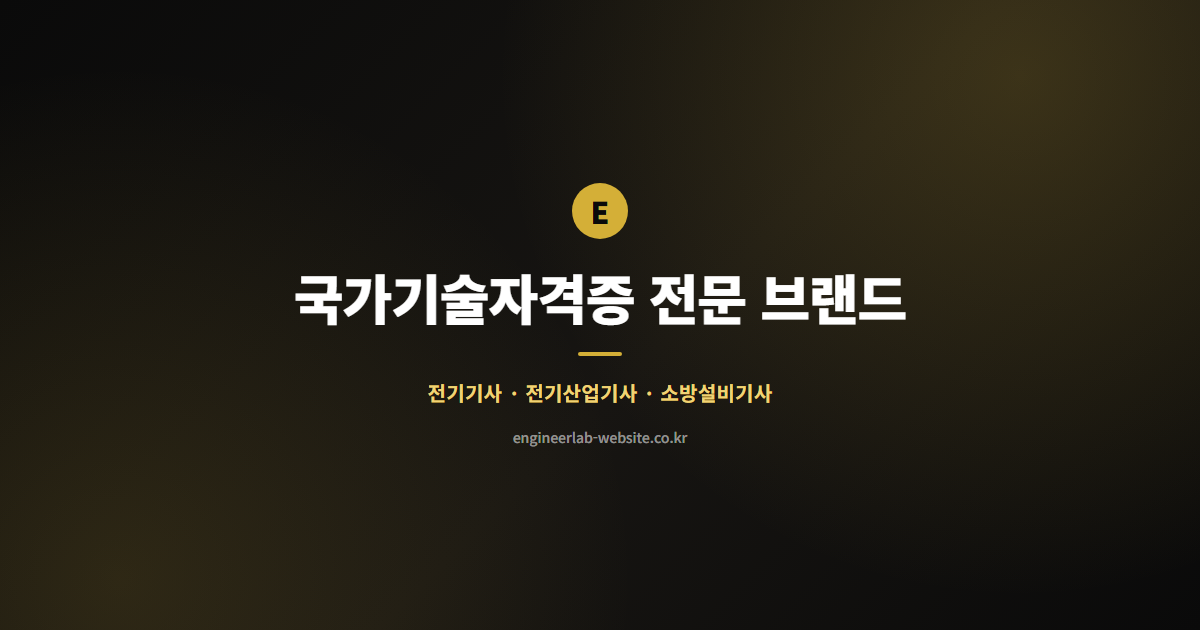
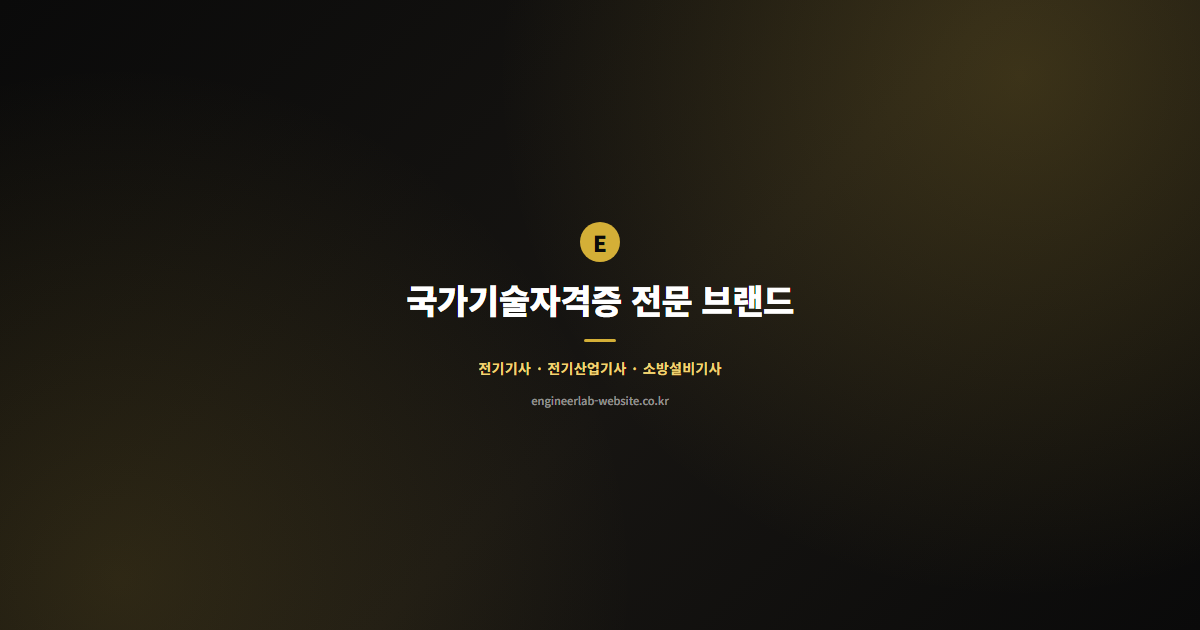
썸네일 텍스트를 훨씬 더 작게 축소 (일부 플랫폼의 더 좁은 크롭 영역에도 안전하게), 캐시버스팅 버전 v3

Changed region(s): [[0.2467, 0.2714, 0.7708, 0.7238]]

diff --git a/index.html b/index.html
@@ -13,11 +13,11 @@
 <meta property="og:title" content="엔지니어랩 - 국가기술자격증 전문 브랜드" />
 <meta property="og:description" content="전기기사·전기산업기사·전기공사기사·소방설비기사·전기기능사·공기업 채용까지, 국가기술자격증 전문 브랜드 엔지니어랩입니다." />
 <meta property="og:url" content="https://engineerlab-website.co.kr/" />
-<meta property="og:image" content="https://engineerlab-website.co.kr/og-thumbnail.png?v=2" />
+<meta property="og:image" content="https://engineerlab-website.co.kr/og-thumbnail.png?v=3" />
 <meta property="og:image:width" content="1200" />
 <meta property="og:image:height" content="630" />
 <meta name="twitter:card" content="summary_large_image" />
-<meta name="twitter:image" content="https://engineerlab-website.co.kr/og-thumbnail.png?v=2" />
+<meta name="twitter:image" content="https://engineerlab-website.co.kr/og-thumbnail.png?v=3" />
 <link rel="icon" type="image/svg+xml" href="favicon.svg">
 <script type="application/ld+json">
 {
@@ -27,7 +27,7 @@
   "alternateName": "엔지니어랩학원",
   "url": "https://engineerlab-website.co.kr/",
   "logo": "https://engineerlab-website.co.kr/favicon.svg",
-  "image": "https://engineerlab-website.co.kr/og-thumbnail.png?v=2",
+  "image": "https://engineerlab-website.co.kr/og-thumbnail.png?v=3",
   "description": "전기기사·전기산업기사·전기공사기사·소방설비기사·전기기능사·공기업 채용까지, 국가기술자격증 전문 브랜드 엔지니어랩입니다.",
   "telephone": "+82-1577-2166",
   "email": "helpenlab@kimyoung.co.kr",

diff --git a/support.html b/support.html
@@ -11,11 +11,11 @@
 <meta property="og:title" content="학습지원 시스템 - 엔지니어랩" />
 <meta property="og:description" content="엔지니어랩 CBT 모의고사, 복원 LIVE 기획특강, 교수님 1:1 학습질문, PC/모바일 학습환경 등 합격 최적화 학습지원 시스템을 소개합니다." />
 <meta property="og:url" content="https://engineerlab-website.co.kr/support.html" />
-<meta property="og:image" content="https://engineerlab-website.co.kr/og-thumbnail.png?v=2" />
+<meta property="og:image" content="https://engineerlab-website.co.kr/og-thumbnail.png?v=3" />
 <meta property="og:image:width" content="1200" />
 <meta property="og:image:height" content="630" />
 <meta name="twitter:card" content="summary_large_image" />
-<meta name="twitter:image" content="https://engineerlab-website.co.kr/og-thumbnail.png?v=2" />
+<meta name="twitter:image" content="https://engineerlab-website.co.kr/og-thumbnail.png?v=3" />
 <link rel="icon" type="image/svg+xml" href="favicon.svg">
 <script type="application/ld+json">
 {

diff --git a/teachers.html b/teachers.html
@@ -11,11 +11,11 @@
 <meta property="og:title" content="강사진 소개 - 엔지니어랩" />
 <meta property="og:description" content="전기기사 조경필 교수, 전기×공기업 김상훈 교수, 소방설비기사 이종오 교수·심승아 교수 등 엔지니어랩 강사진을 소개합니다." />
 <meta property="og:url" content="https://engineerlab-website.co.kr/teachers.html" />
-<meta property="og:image" content="https://engineerlab-website.co.kr/og-thumbnail.png?v=2" />
+<meta property="og:image" content="https://engineerlab-website.co.kr/og-thumbnail.png?v=3" />
 <meta property="og:image:width" content="1200" />
 <meta property="og:image:height" content="630" />
 <meta name="twitter:card" content="summary_large_image" />
-<meta name="twitter:image" content="https://engineerlab-website.co.kr/og-thumbnail.png?v=2" />
+<meta name="twitter:image" content="https://engineerlab-website.co.kr/og-thumbnail.png?v=3" />
 <link rel="icon" type="image/svg+xml" href="favicon.svg">
 <script type="application/ld+json">
 {

diff --git a/professor-sim.html b/professor-sim.html
@@ -11,11 +11,11 @@
 <meta property="og:title" content="심승아 교수 프로필 - 엔지니어랩" />
 <meta property="og:description" content="소방설비기사 심승아 교수 프로필. 서울시립대학교 방재공학전공 석사, 前 한방유비스(주) 소방 실무 경력." />
 <meta property="og:url" content="https://engineerlab-website.co.kr/professor-sim.html" />
-<meta property="og:image" content="https://engineerlab-website.co.kr/og-thumbnail.png?v=2" />
+<meta property="og:image" content="https://engineerlab-website.co.kr/og-thumbnail.png?v=3" />
 <meta property="og:image:width" content="1200" />
 <meta property="og:image:height" content="630" />
 <meta name="twitter:card" content="summary_large_image" />
-<meta name="twitter:image" content="https://engineerlab-website.co.kr/og-thumbnail.png?v=2" />
+<meta name="twitter:image" content="https://engineerlab-website.co.kr/og-thumbnail.png?v=3" />
 <link rel="icon" type="image/svg+xml" href="favicon.svg">
 <script type="application/ld+json">
 {

diff --git a/professor-lee.html b/professor-lee.html
@@ -11,11 +11,11 @@
 <meta property="og:title" content="이종오 교수 프로필 - 엔지니어랩" />
 <meta property="og:description" content="소방설비기사 이종오 교수 프로필. 가천대학교 소방방재학 석사, 소방 현장 실무경력 10년 이상." />
 <meta property="og:url" content="https://engineerlab-website.co.kr/professor-lee.html" />
-<meta property="og:image" content="https://engineerlab-website.co.kr/og-thumbnail.png?v=2" />
+<meta property="og:image" content="https://engineerlab-website.co.kr/og-thumbnail.png?v=3" />
 <meta property="og:image:width" content="1200" />
 <meta property="og:image:height" content="630" />
 <meta name="twitter:card" content="summary_large_image" />
-<meta name="twitter:image" content="https://engineerlab-website.co.kr/og-thumbnail.png?v=2" />
+<meta name="twitter:image" content="https://engineerlab-website.co.kr/og-thumbnail.png?v=3" />
 <link rel="icon" type="image/svg+xml" href="favicon.svg">
 <script type="application/ld+json">
 {

diff --git a/professor-cho.html b/professor-cho.html
@@ -11,11 +11,11 @@
 <meta property="og:title" content="조경필 교수 프로필 - 엔지니어랩" />
 <meta property="og:description" content="전기기사 조경필 교수 프로필. 前 조선대 이공대학 겸임교수, 前 동강대 전기전자 외래교수." />
 <meta property="og:url" content="https://engineerlab-website.co.kr/professor-cho.html" />
-<meta property="og:image" content="https://engineerlab-website.co.kr/og-thumbnail.png?v=2" />
+<meta property="og:image" content="https://engineerlab-website.co.kr/og-thumbnail.png?v=3" />
 <meta property="og:image:width" content="1200" />
 <meta property="og:image:height" content="630" />
 <meta name="twitter:card" content="summary_large_image" />
-<meta name="twitter:image" content="https://engineerlab-website.co.kr/og-thumbnail.png?v=2" />
+<meta name="twitter:image" content="https://engineerlab-website.co.kr/og-thumbnail.png?v=3" />
 <link rel="icon" type="image/svg+xml" href="favicon.svg">
 <script type="application/ld+json">
 {

diff --git a/pricing.html b/pricing.html
@@ -11,11 +11,11 @@
 <meta property="og:title" content="수강신청 - 엔지니어랩" />
 <meta property="og:description" content="전기기사, 전기×공기업, 소방설비기사 패스 상품과 시크릿코드 할인 혜택을 확인하고 수강신청하세요." />
 <meta property="og:url" content="https://engineerlab-website.co.kr/pricing.html" />
-<meta property="og:image" content="https://engineerlab-website.co.kr/og-thumbnail.png?v=2" />
+<meta property="og:image" content="https://engineerlab-website.co.kr/og-thumbnail.png?v=3" />
 <meta property="og:image:width" content="1200" />
 <meta property="og:image:height" content="630" />
 <meta name="twitter:card" content="summary_large_image" />
-<meta name="twitter:image" content="https://engineerlab-website.co.kr/og-thumbnail.png?v=2" />
+<meta name="twitter:image" content="https://engineerlab-website.co.kr/og-thumbnail.png?v=3" />
 <link rel="icon" type="image/svg+xml" href="favicon.svg">
 <script type="application/ld+json">
 {

diff --git a/professor-kim.html b/professor-kim.html
@@ -11,11 +11,11 @@
 <meta property="og:title" content="김상훈 교수 프로필 - 엔지니어랩" />
 <meta property="og:description" content="전기×공기업 김상훈 교수 프로필. 전기공학 박사, 前 인하공업전문대학 교수." />
 <meta property="og:url" content="https://engineerlab-website.co.kr/professor-kim.html" />
-<meta property="og:image" content="https://engineerlab-website.co.kr/og-thumbnail.png?v=2" />
+<meta property="og:image" content="https://engineerlab-website.co.kr/og-thumbnail.png?v=3" />
 <meta property="og:image:width" content="1200" />
 <meta property="og:image:height" content="630" />
 <meta name="twitter:card" content="summary_large_image" />
-<meta name="twitter:image" content="https://engineerlab-website.co.kr/og-thumbnail.png?v=2" />
+<meta name="twitter:image" content="https://engineerlab-website.co.kr/og-thumbnail.png?v=3" />
 <link rel="icon" type="image/svg+xml" href="favicon.svg">
 <script type="application/ld+json">
 {

diff --git a/reviews.html b/reviews.html
@@ -11,11 +11,11 @@
 <meta property="og:title" content="합격 후기 - 엔지니어랩" />
 <meta property="og:description" content="전기기사·전기산업기사·소방설비기사 실제 수강생들의 합격 후기입니다." />
 <meta property="og:url" content="https://engineerlab-website.co.kr/reviews.html" />
-<meta property="og:image" content="https://engineerlab-website.co.kr/og-thumbnail.png?v=2" />
+<meta property="og:image" content="https://engineerlab-website.co.kr/og-thumbnail.png?v=3" />
 <meta property="og:image:width" content="1200" />
 <meta property="og:image:height" content="630" />
 <meta name="twitter:card" content="summary_large_image" />
-<meta name="twitter:image" content="https://engineerlab-website.co.kr/og-thumbnail.png?v=2" />
+<meta name="twitter:image" content="https://engineerlab-website.co.kr/og-thumbnail.png?v=3" />
 <link rel="icon" type="image/svg+xml" href="favicon.svg">
 <script type="application/ld+json">
 {
